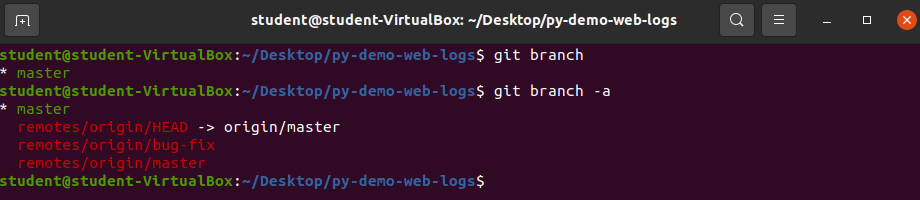
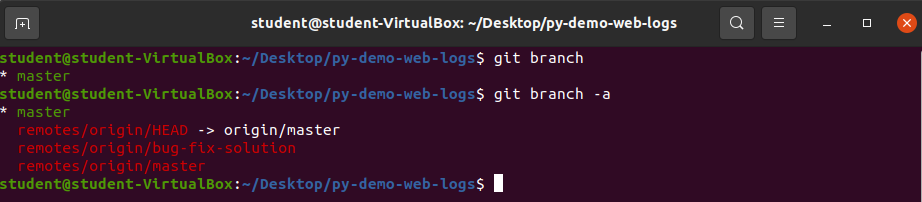
content/git/walkthrough/git-branching/
added in more pictures. Adjusted content to have student create their own branch to fix existing bug

diff --git a/content/git/walkthrough/git-branching/index.md b/content/git/walkthrough/git-branching/index.md
@@ -21,10 +21,26 @@ We will be using the repository you cloned in the previous walkthrough for the i
 Branches allow users to work on projects under version control in a safe and controllable way. Rather than changing folders and files on your `master` branch where you have a working project, branching allows you to add new features and bug fixes on a branch to then later merge them with your master branch. This ensures that you do not break or add unitended bugs directly to your master or main branch of development.
 
 In the steps below you will do the following:
+- Review best branching practices
 - Create a new branch
 - Fix an existing bug
 - Stage changes
 - Push changes to remote repository
+
+### Good Branching Practices
+
+When creating a new branch you always want to make sure your master branch is updated to the most recent version. One reason for this is to avoid any unecessary merge conflicts when you begin to merge any working branches into the master branch. That process will look something like the following:
+
+![git-checkout-master](pictures/git-new-branch.png?classes=border)
+
+- `git checkout master` (if not already on the master branch)
+- `git pull`: Update master branch to most recent working version
+- `git branch [new-branch-name]`: Create a new branch
+- `git checkout [new-branch-name]`: Checkout or switch to newly created branch
+
+{{% notice note %}}
+When you "checkout" from master you are effectively creating a new branch with identical files and directories to the master branch. If you were to checkout from a different branch you would be working with code from that specific branch (which most likely wont have been merged with master yet). The command `git checkout -b new-branch-name` is also a shortened way of running the following commands: `git branch [new-branch]` >> `git checkout [new-branch]`
+{{% /notice %}}
 
 ### Creating a new Branch
 
@@ -39,14 +55,14 @@ Run the command `git branch`. This will show you the current branch you are work
 {{% notice green "Bonus" "rocket" %}}
 If you would like to view all local branches in addition to any remote branches you can add the -a tag at the end of your command: `git branch -a`. Try it out!
 ![git-branch-a](pictures/git-branch-a.png?classes=border)
-You will notice that there is a remote branch `big-fix` that has been created previously on this project.
+You will notice that there is a remote branch `big-fix-solution` that has been created previously on this project.
 {{% /notice %}}
 
 The main.py program within this project currently contains a bug. You are going to create a new branch to fix the bug and stage that change for commit.
 
 ![git-new-branch](pictures/git-new-branch.png?classes=border)
 
-Run the command `git branch fix-bug`. Check that the branch has been created using the `git branch` command.
+Run the command `git branch bug-fix`. Check that the branch has been created using the `git branch` command.
 
 ### Changing Branches
 
@@ -54,27 +70,14 @@ Now that you have a new branch to work on you can switch or "checkout" to that b
 
 ![git-checkout](pictures/git-checkout.png?classes=border)
 
-Run the command `git checkout fix-bug`. Once more check your current branch status with the `git branch` command.
+Run the command `git checkout bug-fix`. Once more check your current branch status with the `git branch` command.
 
-Now that you are on your newly created branch you can begin to add content without directly affecting the master branch of development.
+Now that you are on your newly created branch you can fix the existing bug and stage the changes for commit.
 
 {{% notice note %}}
 It is best practice to always create a new branch when adding content to a project.
 {{% /notice %}}
 
-### Best Branching Practices
-
-When creating a new branch you always want to make sure your master branch is updated to the most recent version. One reason for this is to avoid any unecessary merge conflicts when you begin to merge any working branches into the master branch. That process will look something like the following:
-
-![git-checkout-master](pictures/git-checkout-master.png?classes=border)
-
-- `git checkout master` (if not already on the master branch)
-- `git pull`: Update master branch to most recent working version
-- `git checkout -b new-branch-name`: Create and checkout to a new branch with identical files and directories as the master branch
-
-{{% notice note %}}
-When you "checkout" from master you are effectively creating a new branch with identical files and directories to the master branch. If you were to checkout from a different branch you would be working with code from that specific branch (which most likely wont have been merged with master yet). The command `git checkout -b new-branch-name` is also a shortened way of running the following commands: `git branch new-branch` >> `git checkout new-branch`
-{{% /notice %}}
 
 ### Recap
 
